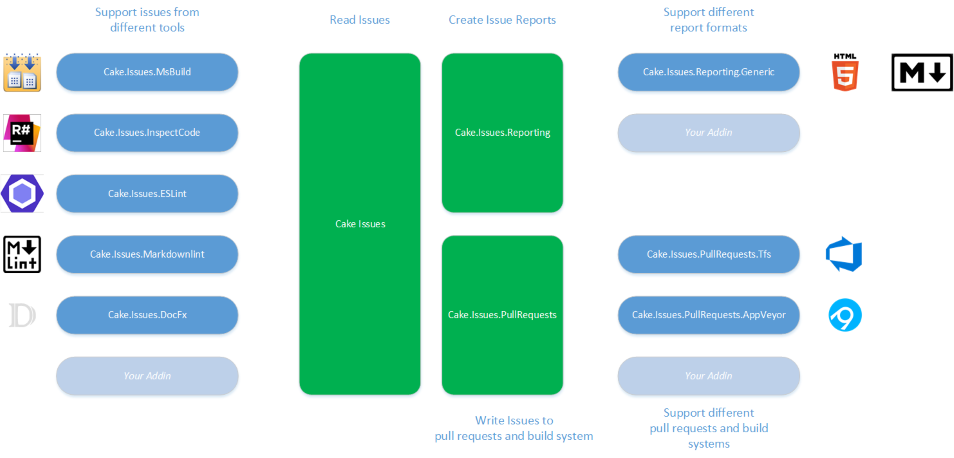
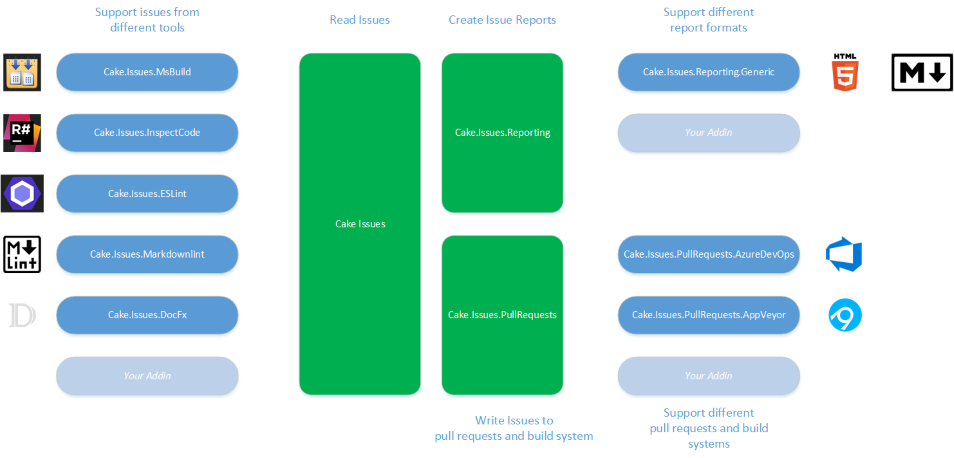
Replace Cake.Issues.PullRequests.Tfs with Cake.Issues.PullRequests.AzureDevOps

diff --git a/input/docs/usage/reporting-issues-to-pull-requests/basic-usage.md b/input/docs/usage/reporting-issues-to-pull-requests/basic-usage.md
@@ -12,11 +12,11 @@ To use report issues to pull requests you need to import the following core addi
 
 Also you need to import at least one issue provider and pull request system.
 In the following example the issue provider for reading warnings from MsBuild log files
-and support for Team Foundation Server pull requests is imported:
+and support for Azure DevOps pull requests is imported:
 
 ```csharp
 #addin "Cake.Issues.MsBuild"
-#addin "Cake.Issues.PullRequests.Tfs"
+#addin "Cake.Issues.PullRequests.AzureDevOps"
 ```
 
 :::{.alert .alert-warning}
@@ -36,10 +36,10 @@ Task("ReportIssuesToPullRequest").Does(() =>
         MsBuildIssuesFromFilePath(
             @"C:\build\msbuild.log",
             MsBuildXmlFileLoggerFormat),
-        TfsPullRequests(
+        AzureDevOpsPullRequests(
             new Uri("http://myserver:8080/tfs/defaultcollection/myproject/_git/myrepository"),
             "refs/heads/feature/myfeature",
-            TfsAuthenticationNtlm()),
+            AzureDevOpsAuthenticationNtlm()),
         repoRootFolder);
 });
 ```

diff --git a/input/docs/usage/reporting-issues-to-pull-requests/custom-issue-filter.md b/input/docs/usage/reporting-issues-to-pull-requests/custom-issue-filter.md
@@ -26,7 +26,7 @@ See [pinning addin versions](https://cakebuild.net/docs/tutorials/pinning-cake-v
 #addin "Cake.Issues"
 #addin "Cake.Issues.MsBuild"
 #addin "Cake.Issues.PullRequests"
-#addin "Cake.Issues.PullRequests.Tfs"
+#addin "Cake.Issues.PullRequests.AzureDevOps"
 
 Task("ReportIssuesToPullRequest").Does(() =>
 {
@@ -44,10 +44,10 @@ Task("ReportIssuesToPullRequest").Does(() =>
                 @"C:\build\msbuild.log",
                 MsBuildXmlFileLoggerFormat)
         },
-        TfsPullRequests(
+        AzureDevOpsPullRequests(
             new Uri("http://myserver:8080/tfs/defaultcollection/myproject/_git/myrepository"),
             "refs/heads/feature/myfeature",
-            TfsAuthenticationNtlm()),
+            AzureDevOpsAuthenticationNtlm()),
         settings));
 });
 ```
